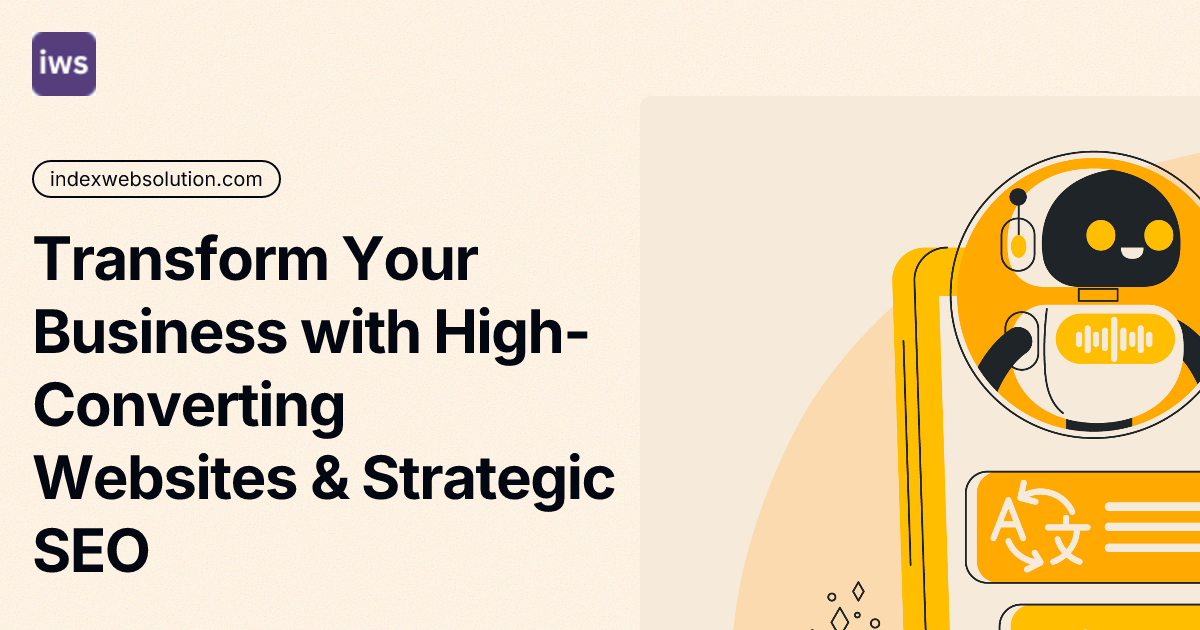
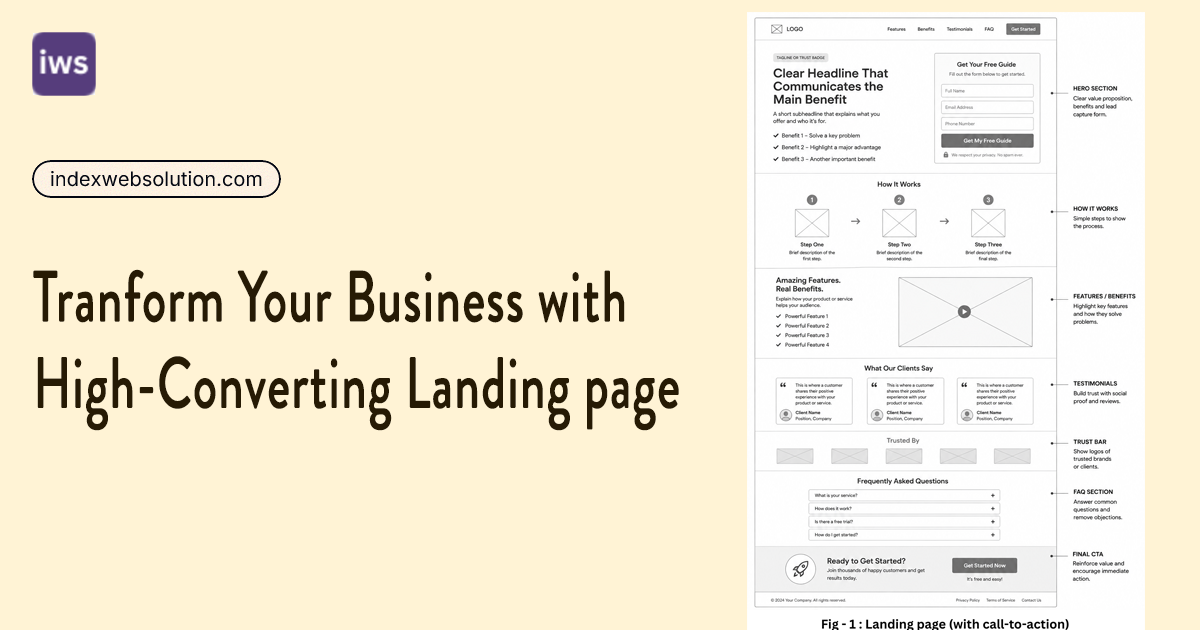
adsindex

diff --git a/index.html b/index.html
@@ -16,10 +16,10 @@
   
   <meta charset="utf-8">
   <meta content="width=device-width, initial-scale=1.0" name="viewport">  
-  <title>Landing Page Designer in Ambala | Mailchimp email automation expert</title>
-  <meta name="description" content="Looking for a skilled landing page designer in Ambala? Get custom, responsive, and SEO-friendly landing page designed to grow your business.">
+  <title>Landing Page Design & Development for Lead Generation | Index Web Solution</title>
+  <meta name="description" content="Design high-converting landing pages for lead generation, Google Ads, social media and service businesses. Get a fast, responsive landing page built to generate leads.">
   <meta property="og:title" content="Landing Page designer in Ambala">
-  <meta property="og:description" content="Looking for a skilled landing page designer in Ambala? Get custom, responsive, and SEO-friendly landing page designed to grow your business.">
+  <meta property="og:description" content="Design high-converting landing pages for lead generation, Google Ads, social media and service businesses. Get a fast, responsive landing page built to generate leads.">
   <meta property="og:image" content="img/og-image.png">
   
   <!-- Favicons -->
@@ -55,7 +55,7 @@
   <header id="header" class="fixed-top ">
     <div class="container d-flex align-items-center justify-content-between">
 
-      <h1 class="logo"><a href="../index.html">IWS</a></h1>
+      <h1 class="logo"><a href="index.html">IWS</a></h1>
       <nav id="navbar" class="navbar">
         <ul>
           <li><a class="nav-link scrollto active" href="index.html">Home</a></li>
@@ -720,11 +720,9 @@
               </p>
               <div class="social-links mt-3">
                 <a href="https://twitter.com/KamalKi20991503" class="twitter"><i class="bx bxl-twitter"></i></a>
-                <a href="https://www.facebook.com/Index-web-solution-104899815536339" class="facebook"><i class="bx bxl-facebook"></i></a>
-                <a href="https://img.youtube.com/vi/2PUryJGjNfo/hqdefault.jpg" class="youtube"><i class="bx bxl-youtube"></i></a>
-                <a href="https://img.youtube.com/vi/2PUryJGjNfo/hqdefault.jpg" class="instagram"><i class="bx bxl-instagram"></i></a>
-                <a href="#" class="google-plus"><i class="bx bxl-skype"></i></a>
-                <a href="https://www.linkedin.com/in/index-web-solution-10b10b238/" class="linkedin"><i class="bx bxl-linkedin"></i></a>
+                <a href="https://www.facebook.com/people/Index-web-solution/100082678604196/" class="facebook"><i class="bx bxl-facebook"></i></a>
+                <a href="https://www.youtube.com/@KamalKishore-IndexWebSolution" class="youtube"><i class="bx bxl-youtube"></i></a>
+                <a href="https://www.linkedin.com/company/index-web-solution/" class="linkedin"><i class="bx bxl-linkedin"></i></a>
               </div>
             </div>
           </div>
